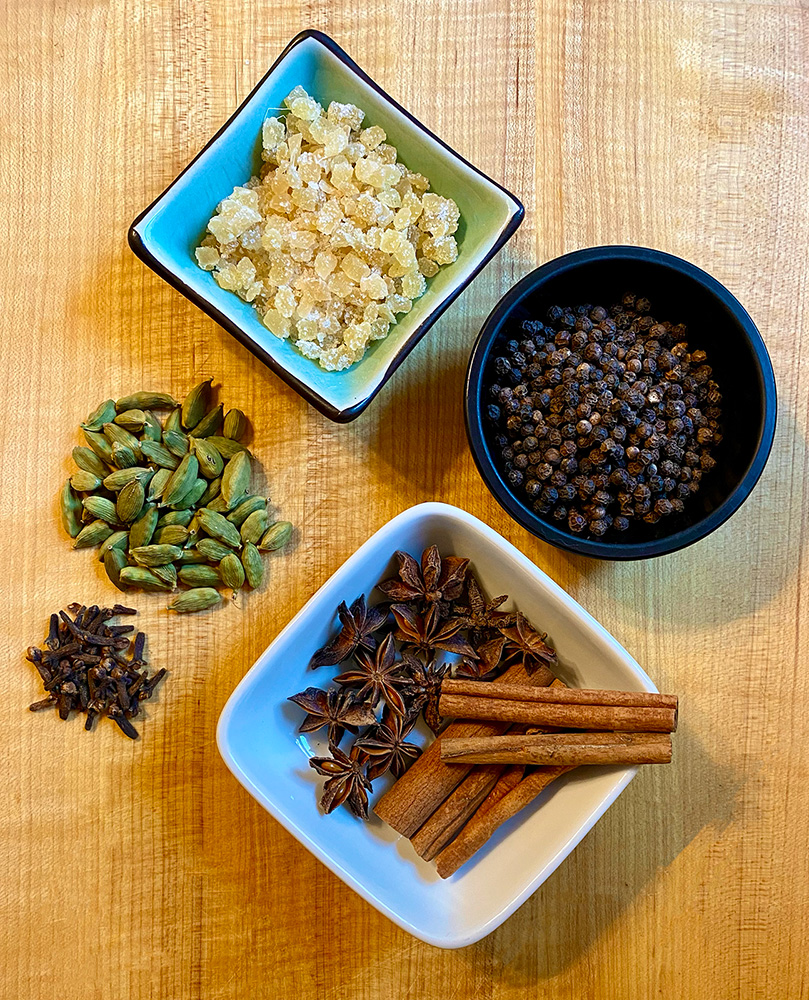
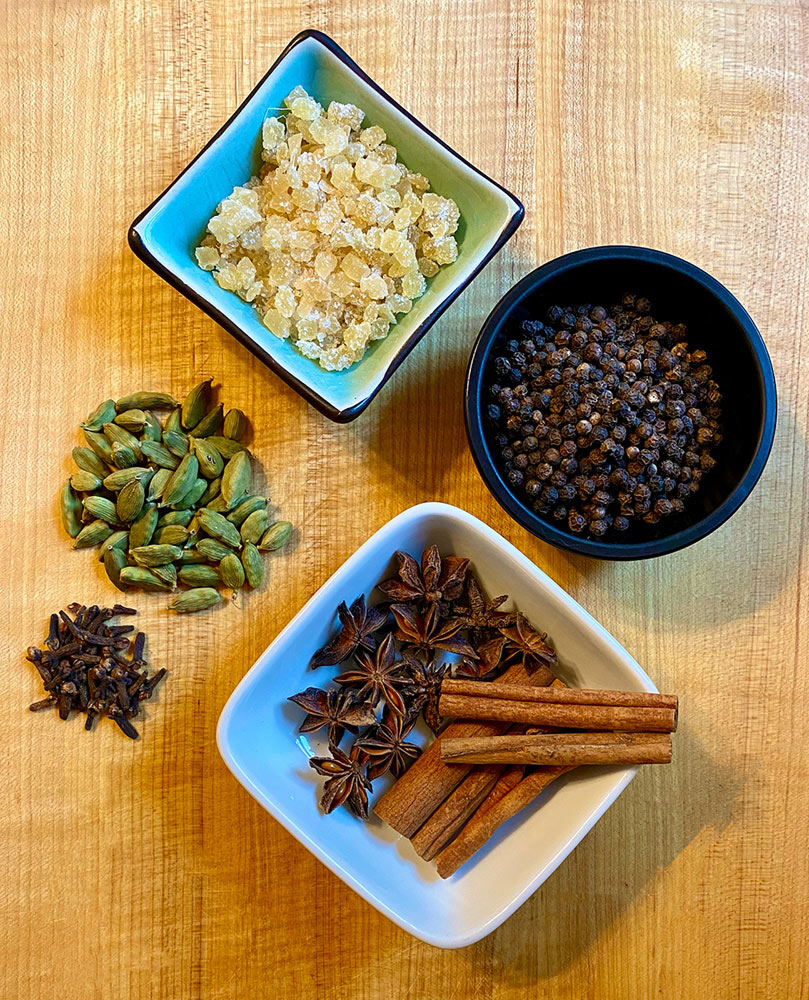
Image optimization

diff --git a/index.html b/index.html
@@ -300,7 +300,7 @@
 
 	<preload>
 		<img src="img/bicycle.jpg">
-		<img src="img/guitar.png">
+		<img src="img/guitar.jpg">
 		<img src="img/art.jpg">
 		<img src="img/hiking.jpg">
 		<img src="img/kayaking.jpg">

diff --git a/pages/3d-modeling.html b/pages/3d-modeling.html
@@ -1,6 +1,6 @@
 <div class="image-container">
 
-	<img src="img/guitar.png" title="A guitar I designed and modeled">
+	<img src="img/guitar.jpg" title="A guitar I designed and modeled">
 
 </div>
 
